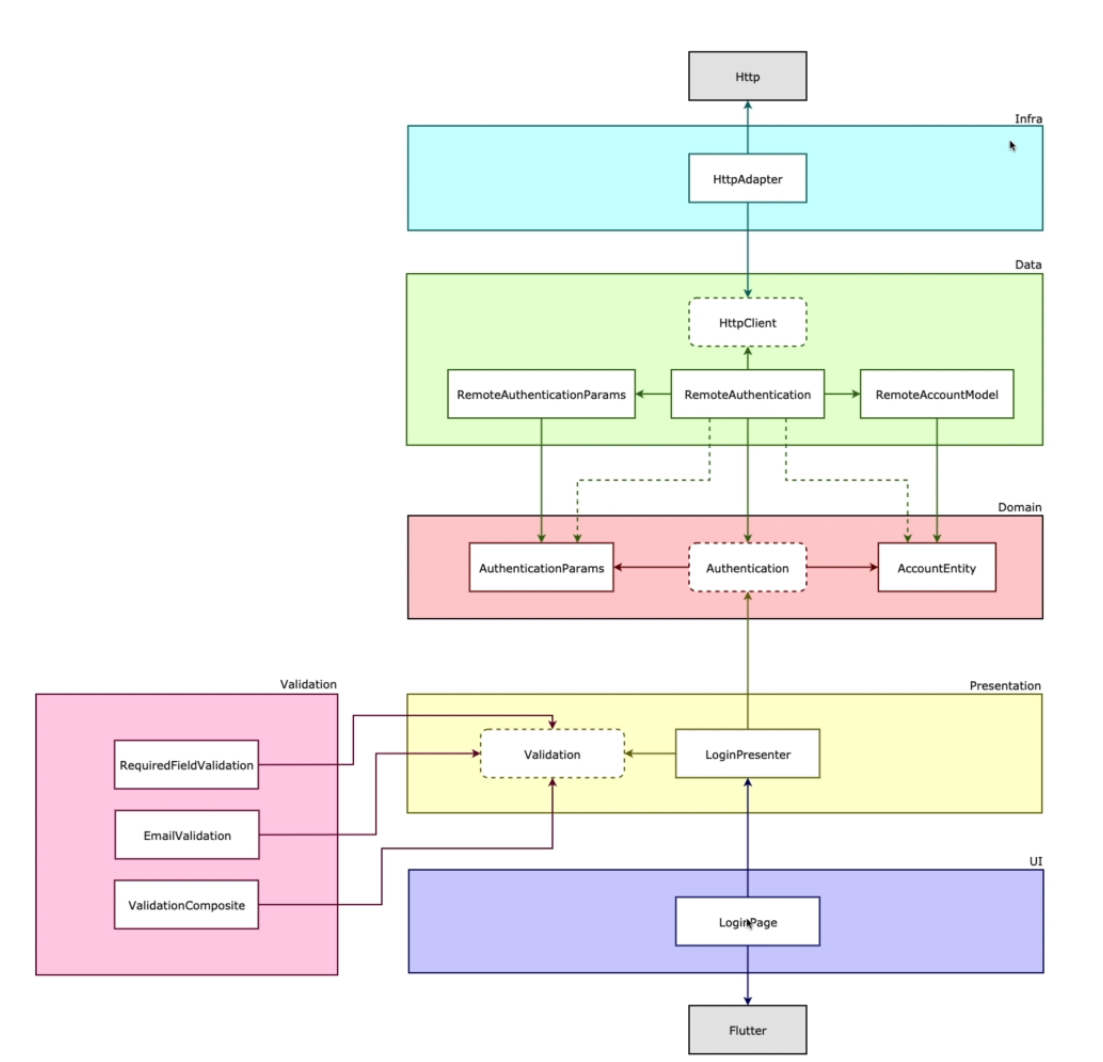
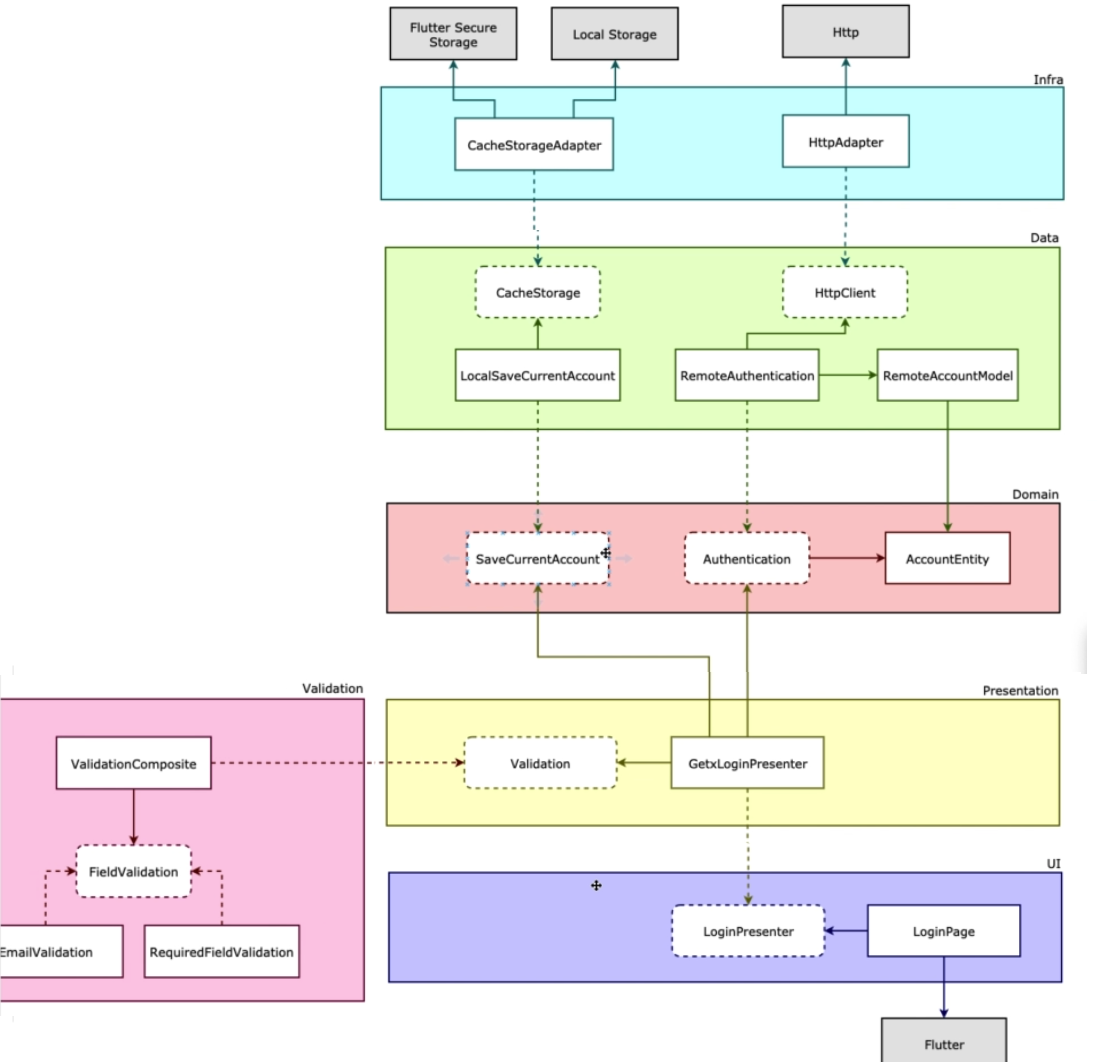
chore: update requirements

diff --git a/requirements/use_cases/local_save_current_account.md b/requirements/use_cases/local_save_current_account.md
@@ -1,0 +1,7 @@
+# Local Save Current Account Use Case
+
+> ## Success case
+1. System saves user access token in Cache securely
+
+> ## Exception - Failed to write to cache
+1. System returns an unexpected error message
